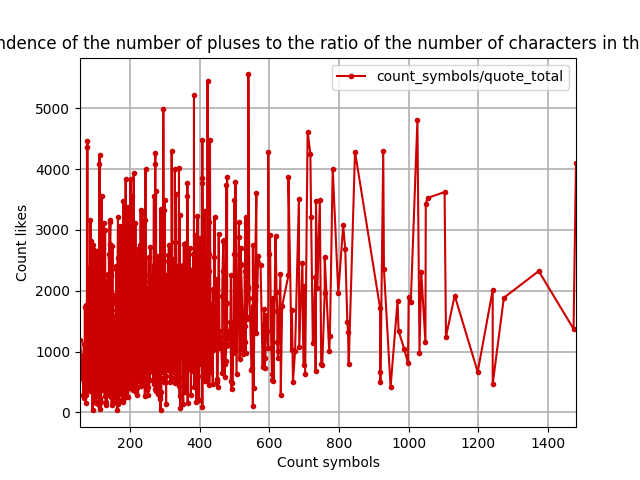
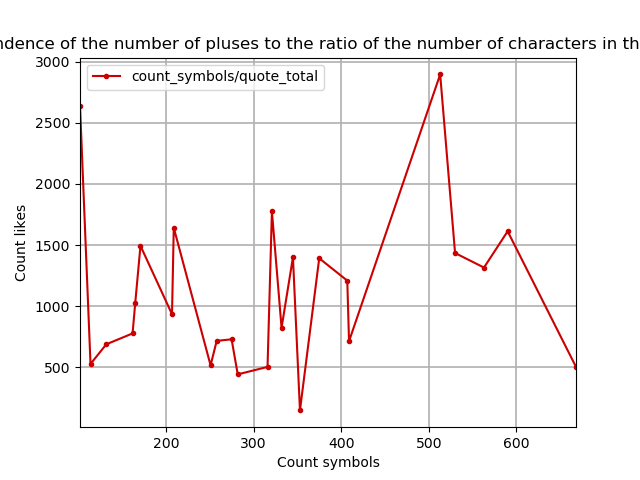
create_csf_file

diff --git a/bashorg_parser.py b/bashorg_parser.py
@@ -4,7 +4,6 @@
 #frequency of the word "joke"
 #graph of the number of "likes"
 #table with the distribution of the number of posts by date
-from asyncore import file_dispatcher
 
 import requests
 import os
@@ -19,8 +18,9 @@ from bs4 import BeautifulSoup as bs
 headers = {'accept': '*/*',
            'user-agent': 'Mozilla/5.0 (Windows NT 10.0; Win64; x64; rv:72.0) Gecko/20100101 Firefox/72.0'}
 base_Url = 'https://bash.im'
-count_pg_to_parse = 50
+count_pg_to_parse = 1
 find_word = 'шутка'
+csv_File = 'output_Quote_Date.csv'
 pages_url_List = []
 column_Names = ['quote_Number', 'quote_text', 'count_symbols', 'quote_total', 'quote_date', 'quote_link']
 parsed_Data_Df = pd.DataFrame(columns = column_Names)
@@ -98,7 +98,7 @@ def word_Frequency(parsed_data, search_word):
 def graphic_barplot_nbr_Likes(parsed_Data_Df):
     ax = parsed_Data_Df.sort_values(by='quote_total', ascending = False)
     ax = ax.head(10) # Для удобства 10 лучших
-    ax = ax.plot.bar(x='quote_Number', y='quote_total', rot=0, color = '#cc0000', align = 'center', fontsize = 9)
+    ax = ax.plot.bar(x='quote_Number', y='quote_total', rot=0, color = '#cc0000', align = 'center', fontsize = 8)
     ax.set_xlabel('Number of quote')
     ax.set_ylabel('Count likes')
     ax.set_title('graph of the number of likes with descending sort')
@@ -125,8 +125,23 @@ def graphic_Dependence_CSymb_To_Likes(dependence_DF):
 
 def create_Dependence_df(parsed_Data_Df):
     dependence_DF = parsed_Data_Df[['quote_total', 'count_symbols']]
-    dependence_DF = dependence_DF.sort_values(by='count_symbols', ascending = False)[::-1] #Сортировка от большего и переворот
+    dependence_DF = dependence_DF.sort_values(by='count_symbols', ascending = False)[::-1] #Сортировка от большего и переворот срезом
     return dependence_DF
+
+def df_to_list(parsed_data_df):
+    list_ar = parsed_data_df['quote_date'].values.tolist()
+    return list_ar
+
+def create_Table(parsed_data_df, csv_filename):
+    df_to_list(parsed_data_df)
+    count_Posts_on_date = Counter(df_to_list(parsed_data_df))
+    to_table_df = pd.DataFrame(columns = ['post_Date', 'count_Posts'])
+    for i in count_Posts_on_date:
+        #print(f'{i} {count_Posts_on_date.get(i)}')
+        to_table_df.loc[len(to_table_df)] = [i, count_Posts_on_date.get(i)]
+    print(to_table_df)
+    to_table_df.to_csv(csv_filename, sep='\t', encoding='utf-8')
+
 
 
 def main():
@@ -134,11 +149,16 @@ def main():
     parallelize_parsing(create_Pages_List(base_Url, headers), bashorg_parse, headers)
 
     print(' ------------|| ANALYSIS PART ||------------\n')
+
     word_Frequency(parsed_Data_Df, find_word)
+
     print('\n | Launch dependence graph |')
-    graphic_Dependence_CSymb_To_Likes(create_Dependence_df(parsed_Data_Df))
-    print('\n | Launch graph of the number of likes with sort |')
-    graphic_barplot_nbr_Likes(parsed_Data_Df)
+    #graphic_Dependence_CSymb_To_Likes(create_Dependence_df(parsed_Data_Df))
+
+    print('\n | Launch graph of the number of likes with sort |\n')
+    #graphic_barplot_nbr_Likes(parsed_Data_Df)
+
+    create_Table(parsed_Data_Df, csv_File)
     print('\n ------------|| END ANALYSIS PART ||------------\n')
 
 if __name__ =="__main__":
